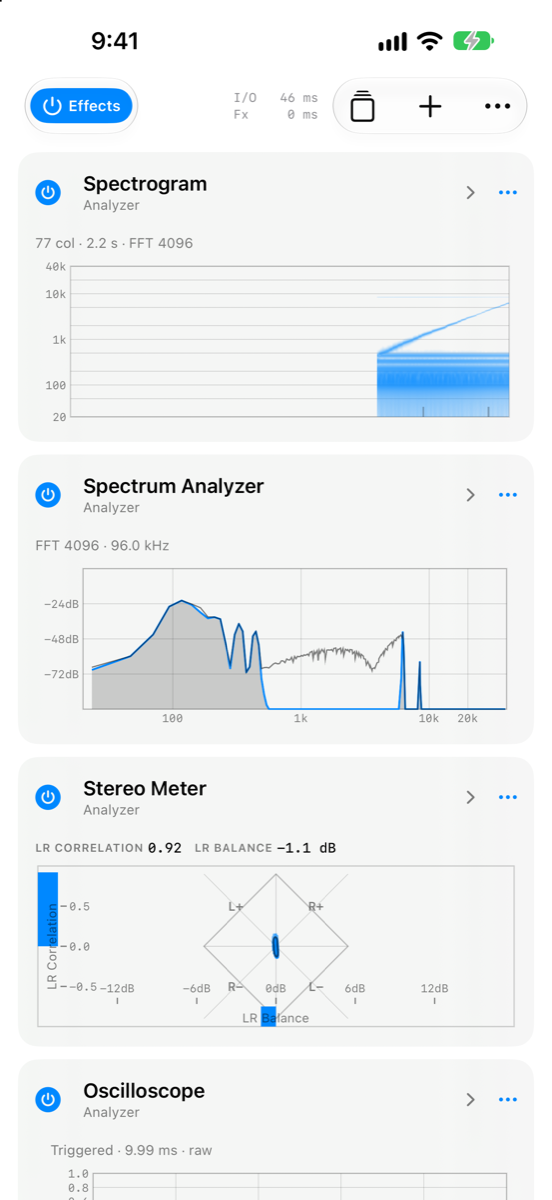
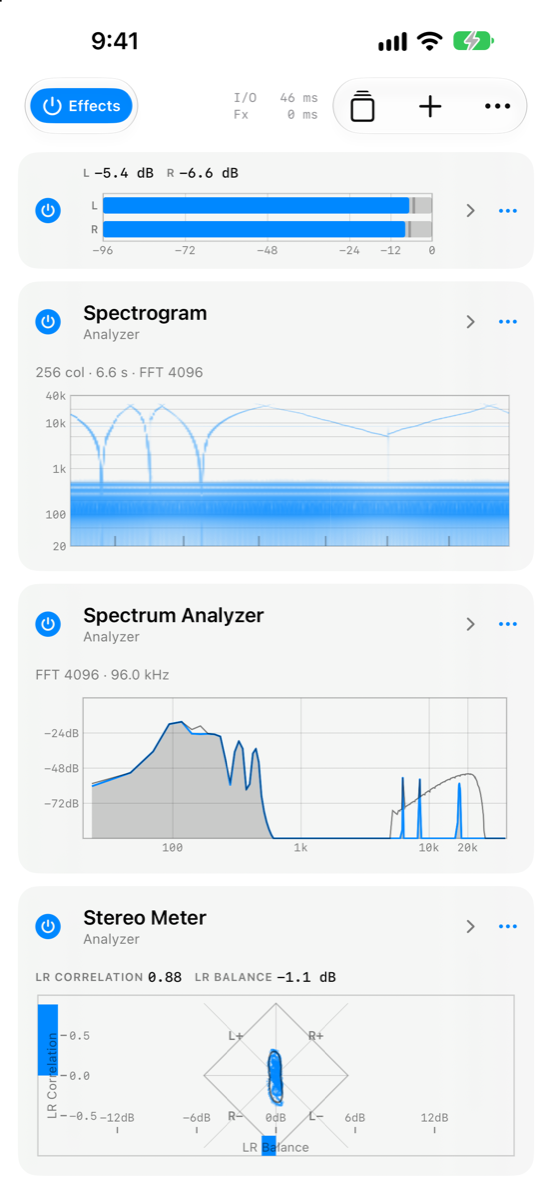
宣材の Analyzer は 4 枚にして、埋まってから撮る
Level Meter を頭に、Oscilloscope は外す。Spectrogram は端まで
埋まるのに時間が要るので、待ち時間を SLEEP で渡せるようにした。

Claude-Session: https://claude.ai/code/session_013Pa89izEtbUA9BCQLoCqtp

diff --git a/Sources/EffeTuneLive/ScreenshotSeed.swift b/Sources/EffeTuneLive/ScreenshotSeed.swift
@@ -59,6 +59,19 @@ enum ETScreenshotSeed {
            let id = storePresets[name] {
             return ETSystemPresets.first { $0.id == id }?.json
         }
+        // 宣材用の Analyzer 4 枚。同梱の All Analyzers から Oscilloscope を外し、
+        // Level Meter を頭へ持ってきたもの。畳んで撮ると図だけが 4 つ並ぶ。
+        // **Spectrogram は埋まるまで時間が要る**（SLEEP を伸ばして撮ること）。
+        if UserDefaults.standard.string(forKey: "ETSeed") == "analyzers4" {
+            return """
+            {"pipeline":[
+              {"name":"Level Meter","enabled":true,"parameters":{}},
+              {"name":"Spectrogram","enabled":true,"parameters":{"dr":-96,"pt":12}},
+              {"name":"Spectrum Analyzer","enabled":true,"parameters":{"dr":-96,"pt":12}},
+              {"name":"Stereo Meter","enabled":true,"parameters":{"wt":0.1}}
+            ]}
+            """
+        }
         guard requested != nil, UserDefaults.standard.string(forKey: "ETSeed") == "store" else {
             return nil
         }
@@ -94,7 +107,7 @@ enum ETScreenshotSeed {
     static var requested: [String]? {
         guard let name = UserDefaults.standard.string(forKey: "ETSeed") else { return nil }
         // プリセットを読むものは、並べる型を自分では決めない（storeChain が持つ）。
-        if storePresets[name] != nil { return [] }
+        if storePresets[name] != nil || name == "analyzers4" { return [] }
         switch name {
         case "none":       return []
         case "peq":        return ["FiveBandPEQPlugin"]
